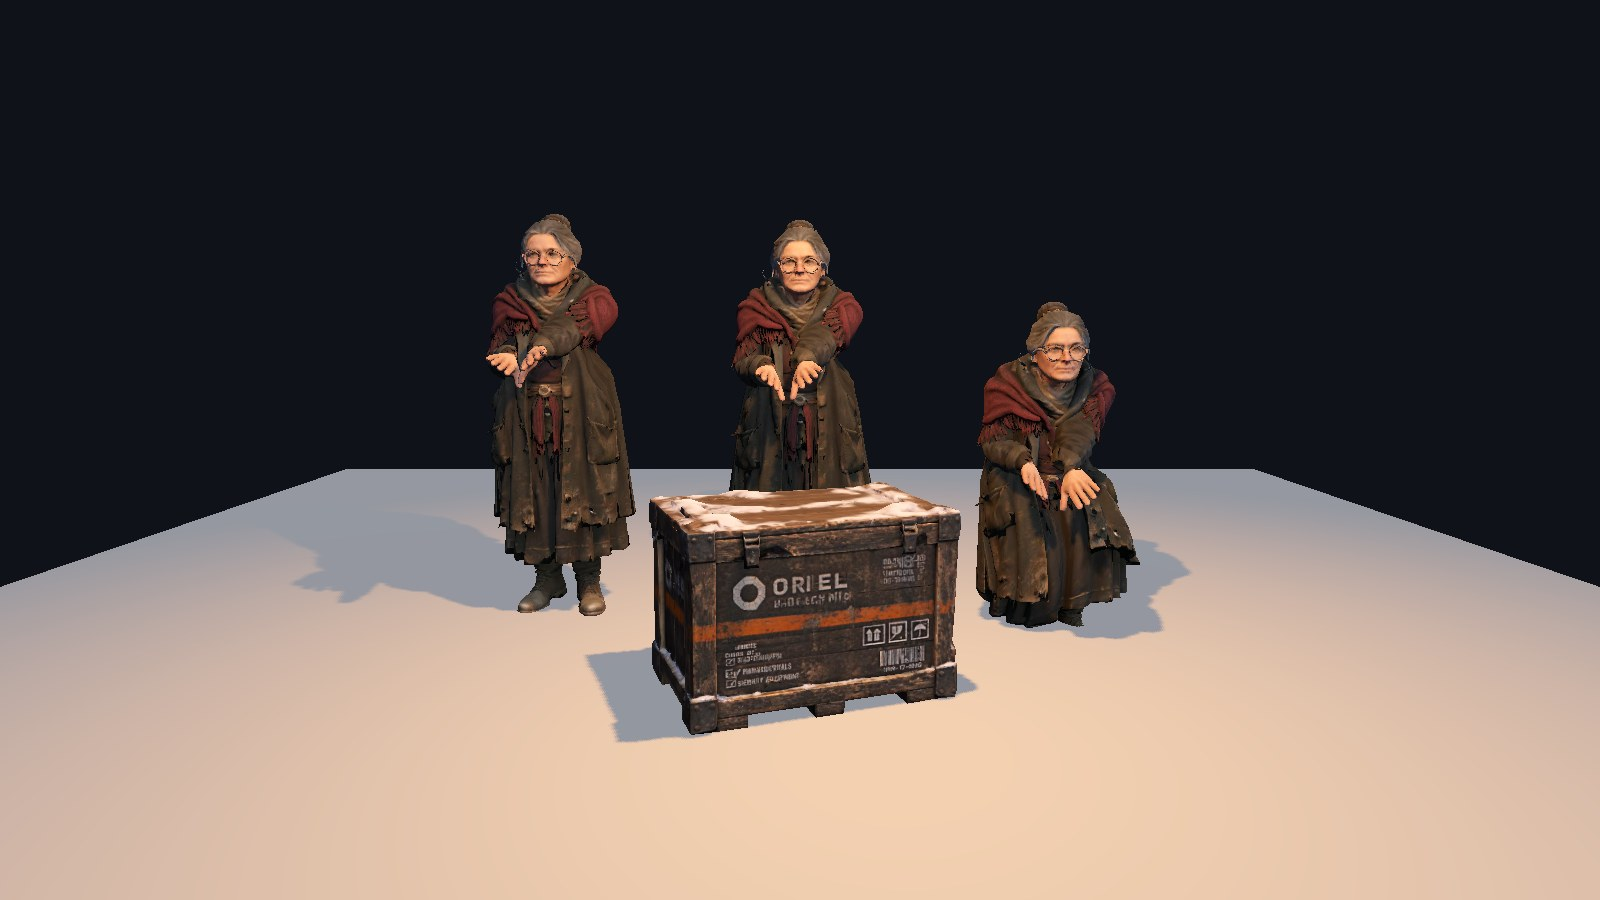
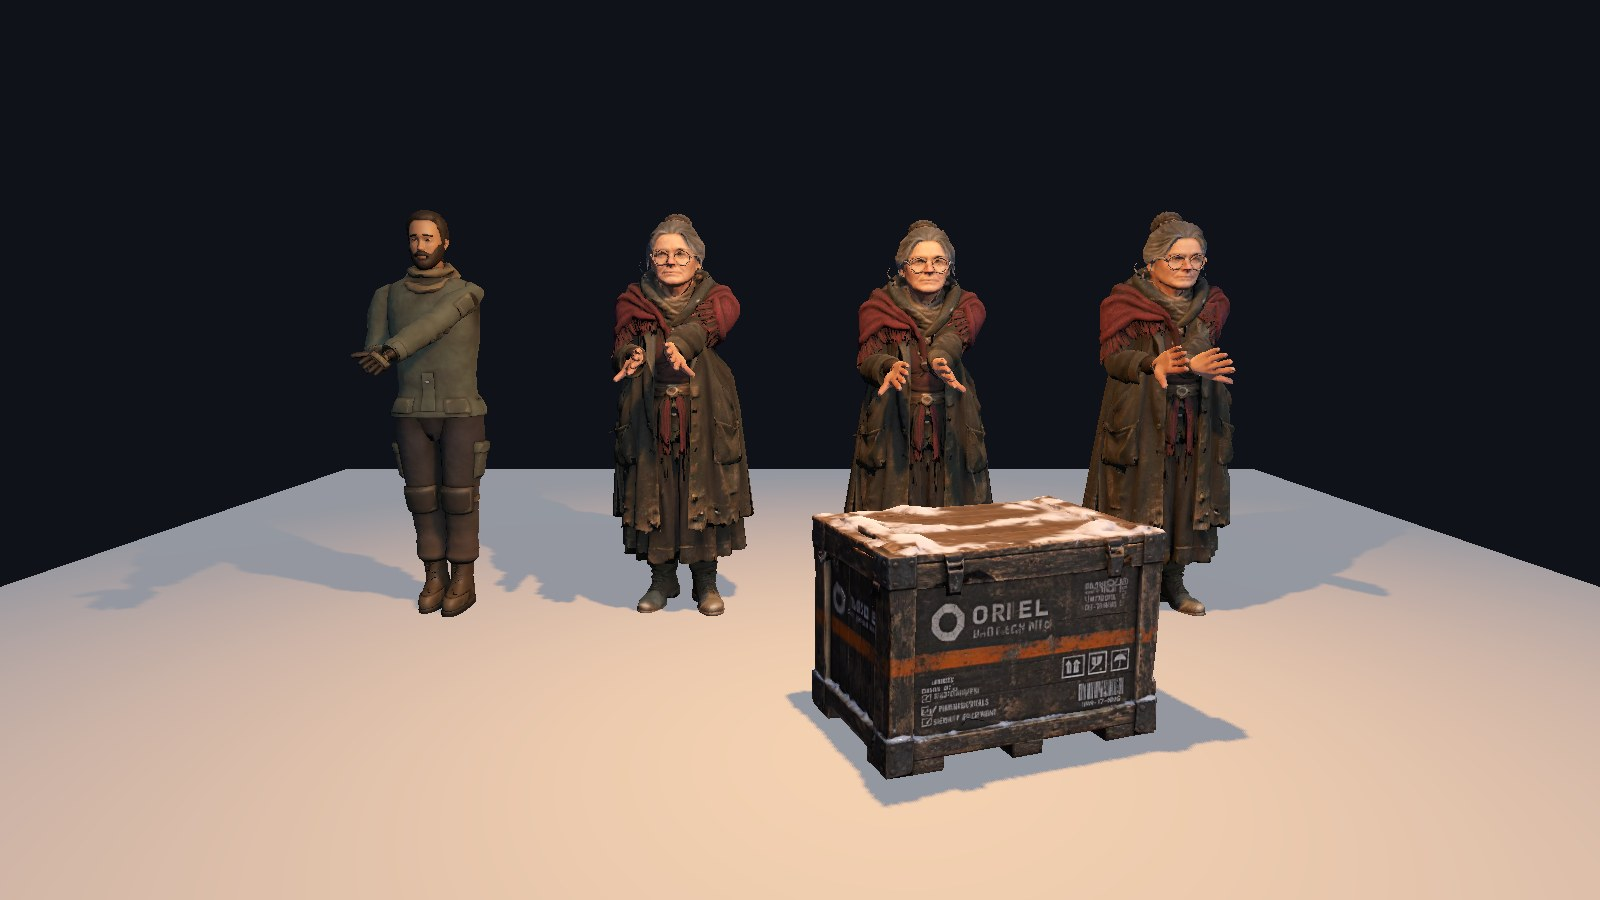
Tripo rig: twist forearms so hands match our rest hand
Tripo's T-pose has the palms down; after the swing to our A-pose every
clip showed open, upturned palms. The forearm now turns so the thumb
points down and in, like the player body's rest hand.

Claude-Session: https://claude.ai/code/session_012H4uhnQAM2gZoXUcxfn9hU

Changed region(s): [[0.1562, 0.2178, 0.875, 0.9022], [0.0625, 0.6533, 0.0938, 0.6844]]

diff --git a/tools/assets/tripo_rig.py b/tools/assets/tripo_rig.py
@@ -5,6 +5,8 @@ play our clips. When the source has a Mixamo-named skeleton, its joint positions
 1.80 m rest rig is used as is. Weights come from `character_rig.bind`.
 """
 
+import math
+
 import bpy
 
 # isort: split
@@ -54,6 +56,26 @@ def _aim(arm, pbone, world_dir: Vector) -> None:
     bpy.context.view_layer.update()
 
 
+def _turn_thumb_up(arm, bones: dict, word: str, direction: Vector) -> None:
+    """Twists the forearm about the arm so the thumb points down and in, back of the hand up and out, like
+    our rest hand. Without it the clips show open, upturned palms."""
+    forearm, hand = bones.get(f"{word}forearm"), bones.get(f"{word}hand")
+    thumb = bones.get(f"{word}handthumb2") or bones.get(f"{word}handthumb1")
+    if forearm is None or hand is None or thumb is None:
+        return
+    axis = direction.normalized()
+    up = Vector((0.0, 0.0, 1.0))
+    want = (axis * up.dot(axis) - up).normalized()
+    world = arm.matrix_world.to_3x3()
+    have = world @ (thumb.head - hand.head)
+    have = (have - axis * have.dot(axis)).normalized()
+    angle = math.atan2(axis.dot(have.cross(want)), have.dot(want))
+    turn = Matrix.Rotation(angle, 4, (world.inverted() @ axis).normalized())
+    head = forearm.matrix.translation.copy()
+    forearm.matrix = Matrix.Translation(head) @ turn @ Matrix.Translation(-head) @ forearm.matrix
+    bpy.context.view_layer.update()
+
+
 def a_pose(arm, meshes: list) -> None:
     """Swings a T-posed Mixamo body's arms down to our rest angle with Tripo's own skin, then keeps that
     pose as the mesh and the rest. Our clips are made for our A-pose rest, so a T-pose rest raises the arms."""
@@ -66,6 +88,7 @@ def a_pose(arm, meshes: list) -> None:
             pbone = bones.get(f"{word.lower()}{part}")
             if pbone is not None:
                 _aim(arm, pbone, direction)
+        _turn_thumb_up(arm, bones, word.lower(), direction)
     for obj in meshes:
         for mod in [m for m in obj.modifiers if m.type == "ARMATURE"]:
             bpy.context.view_layer.objects.active = obj

diff --git a/tools/assets/tests/test_tripo_intake.py b/tools/assets/tests/test_tripo_intake.py
@@ -235,3 +235,36 @@ def test_embedded_jpegs_have_no_icc_profile(prop):
         view = document["bufferViews"][image["bufferView"]]
         jpeg = binary[view.get("byteOffset", 0) : view.get("byteOffset", 0) + view["byteLength"]]
         assert b"ICC_PROFILE" not in jpeg
+
+
+def test_forearm_twist_turns_the_thumb_down_and_in_like_our_rest():
+    """Tripo's T-pose palms face down; after the swing the thumb must point where our rest hand's does
+    (down and in, back of the hand up and out), or every clip shows open palms."""
+    import tripo_rig
+
+    bpy.ops.wm.read_factory_settings(use_empty=True)
+    arm = bpy.data.objects.new("Armature", bpy.data.armatures.new("Armature"))
+    bpy.context.collection.objects.link(arm)
+    bpy.context.view_layer.objects.active = arm
+    bpy.ops.object.mode_set(mode="EDIT")
+    rest = tripo_rig.character_rig.BONES["upperarm_L"]
+    direction = (Vector(rest[2]) - Vector(rest[1])).normalized()
+    parts = {}
+    for name, head, tail in (
+        ("LeftForeArm", (0.0, 0.0, 0.0), direction * 0.25),
+        ("LeftHand", direction * 0.25, direction * 0.35),
+        ("LeftHandThumb2", direction * 0.27 + Vector((0.0, -0.04, 0.0)), direction * 0.27 + Vector((0.0, -0.08, 0.0))),
+    ):
+        bone = arm.data.edit_bones.new(f"mixamorig:{name}")
+        bone.head, bone.tail = head, tail
+        parts[name] = bone
+    parts["LeftHand"].parent = parts["LeftForeArm"]
+    parts["LeftHandThumb2"].parent = parts["LeftHand"]
+    bpy.ops.object.mode_set(mode="POSE")
+    bones = {tripo_rig._plain(b.name): b for b in arm.pose.bones}
+    tripo_rig._turn_thumb_up(arm, bones, "left", direction)
+    thumb = (bones["lefthandthumb2"].head - bones["lefthand"].head).normalized()
+    up = Vector((0.0, 0.0, 1.0))
+    want = (direction * up.dot(direction) - up).normalized()
+    assert (thumb - direction * thumb.dot(direction)).normalized().dot(want) > 0.99
+    bpy.ops.object.mode_set(mode="OBJECT")

diff --git a/docs/design/reviews/tripo-trial/README.md b/docs/design/reviews/tripo-trial/README.md
@@ -19,7 +19,7 @@ code-built versions.
 
 - [crate_comparison.jpg](crate_comparison.jpg): source, our output, today's code-built `crate_large`.
 - [odile_comparison.jpg](odile_comparison.jpg): code-built Quartermaster, Tripo + intake with clips, in Godot.
-- [godot_forward_plus.jpg](godot_forward_plus.jpg): both models in Godot, imported as-is.
+- [godot_forward_plus.jpg](godot_forward_plus.jpg): player body and Odile (idle, walk, reload) with the crate in Godot, imported as-is.
 
 ## What works
 
@@ -70,6 +70,10 @@ All in `tools/assets/tripo_intake.py` / `tripo_rig.py`, with tests in
   the albedo came out blank.
 - No exported tangents: one degenerate UV gave a zero tangent the validator
   rejects; Godot makes its own.
+- Twist the forearm after the swing so the hand matches our rest hand (back of
+  the hand up and out). Tripo's T-pose has the palms down, and the first run
+  showed open, upturned palms in every clip
+  ([hands_player_vs_odile.jpg](hands_player_vs_odile.jpg), player left).
 
 ## How to run
 
